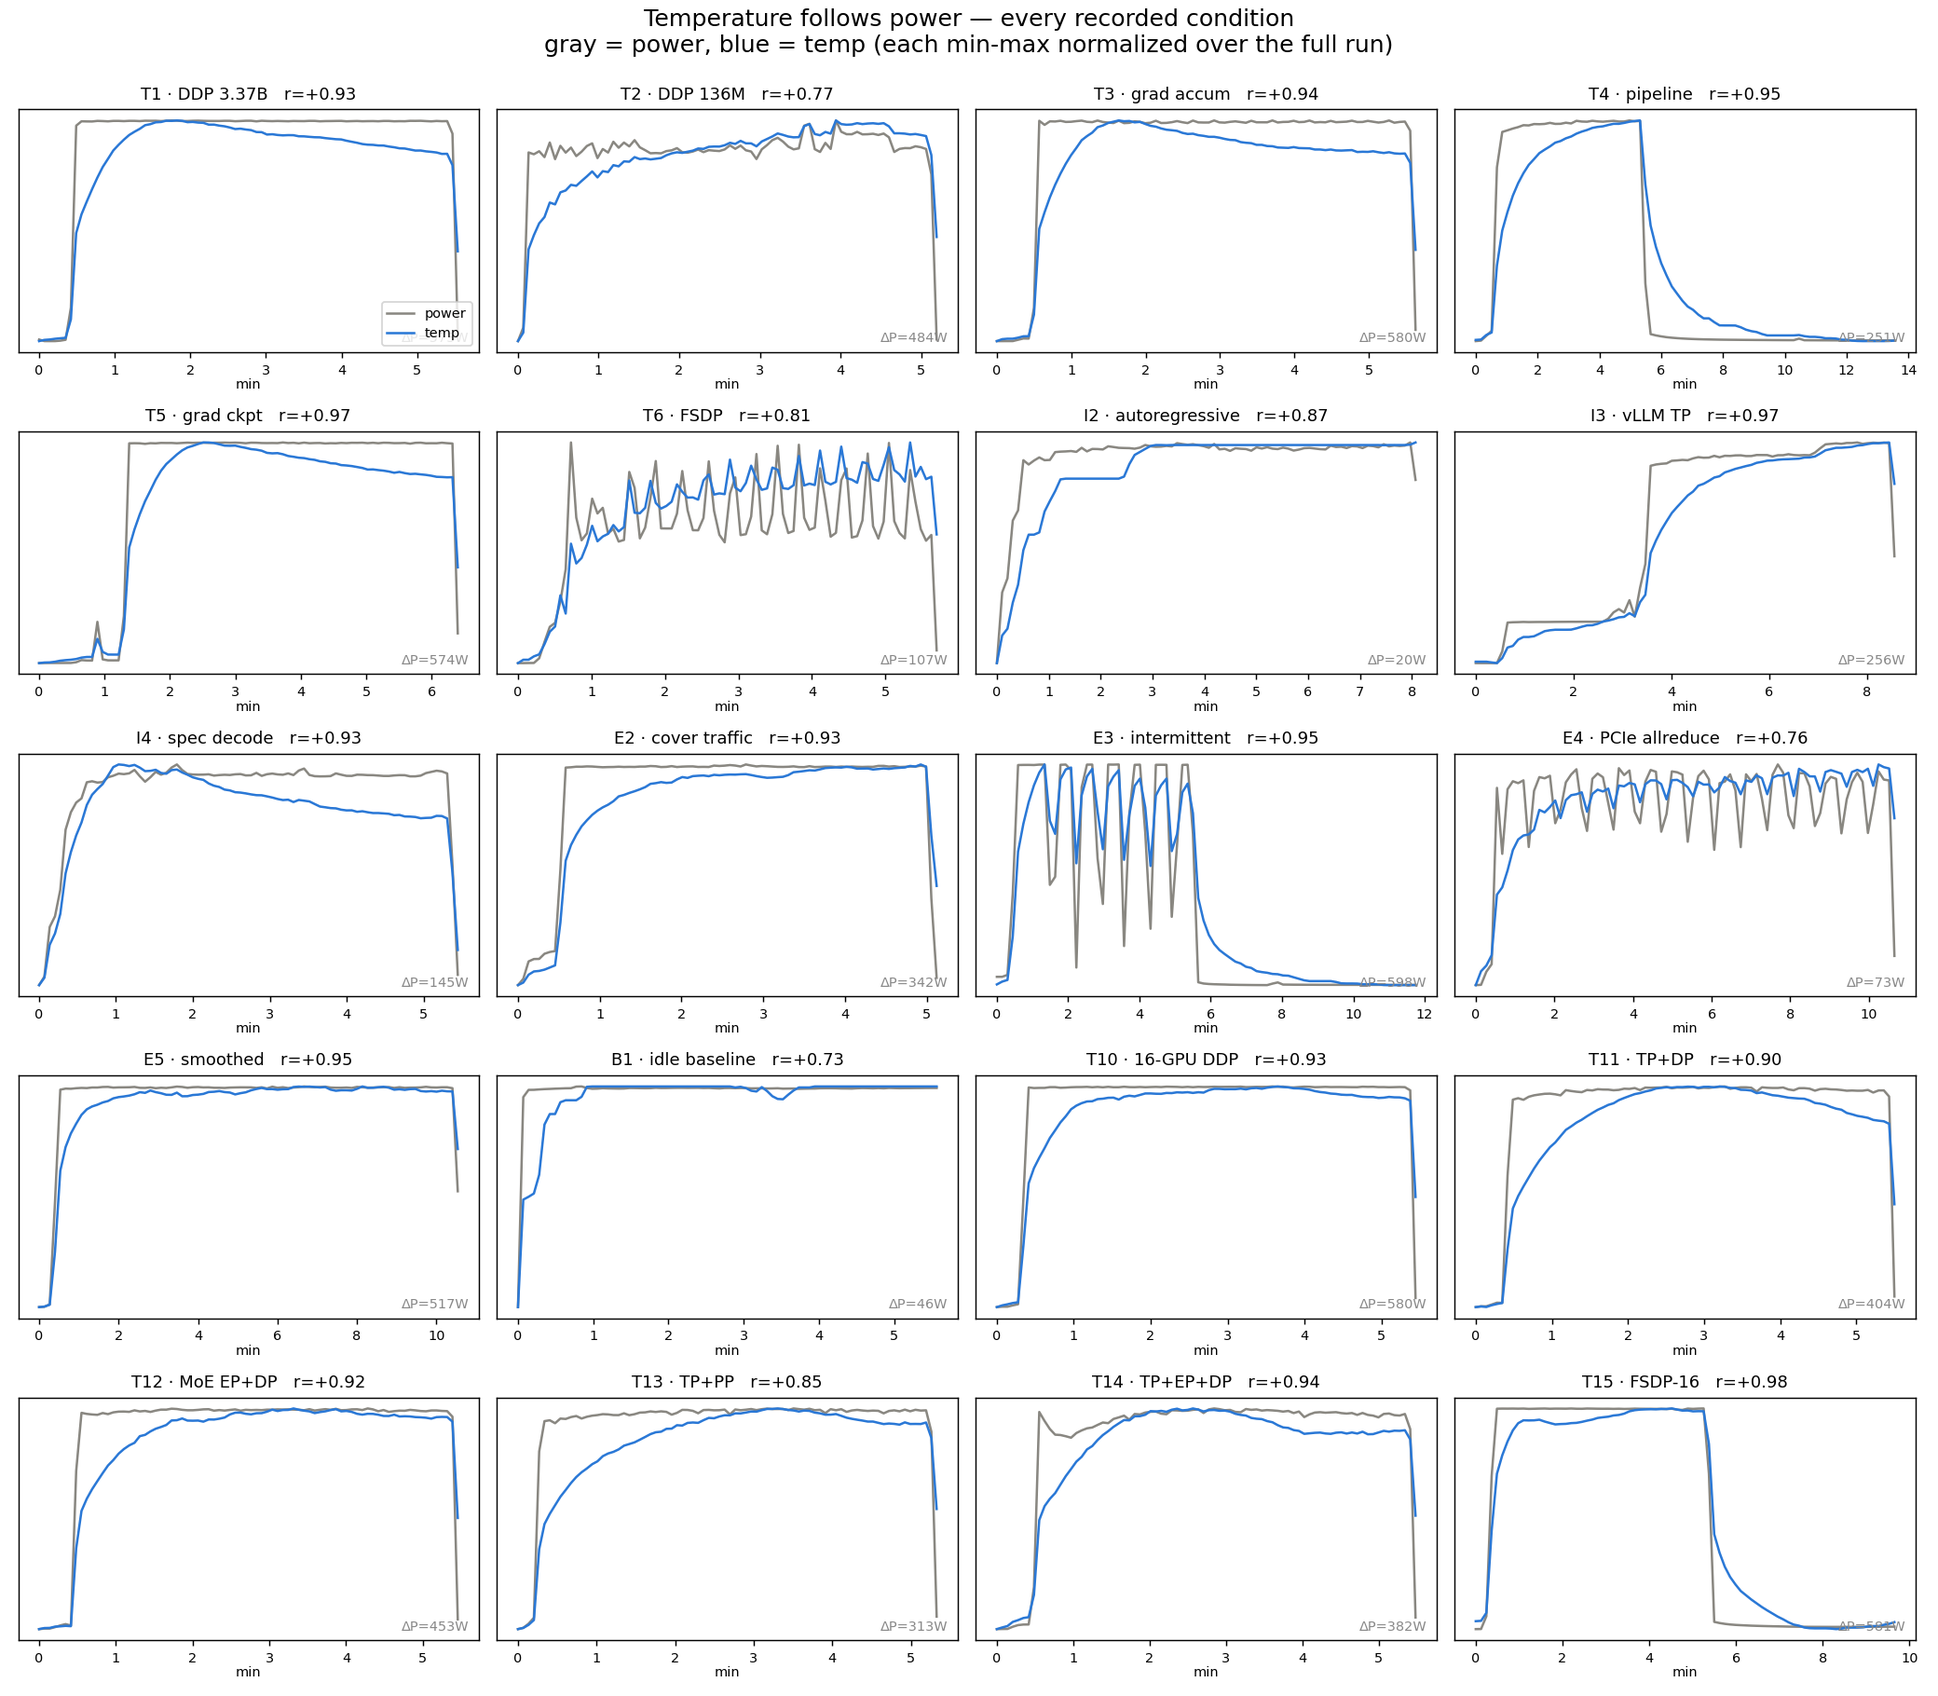
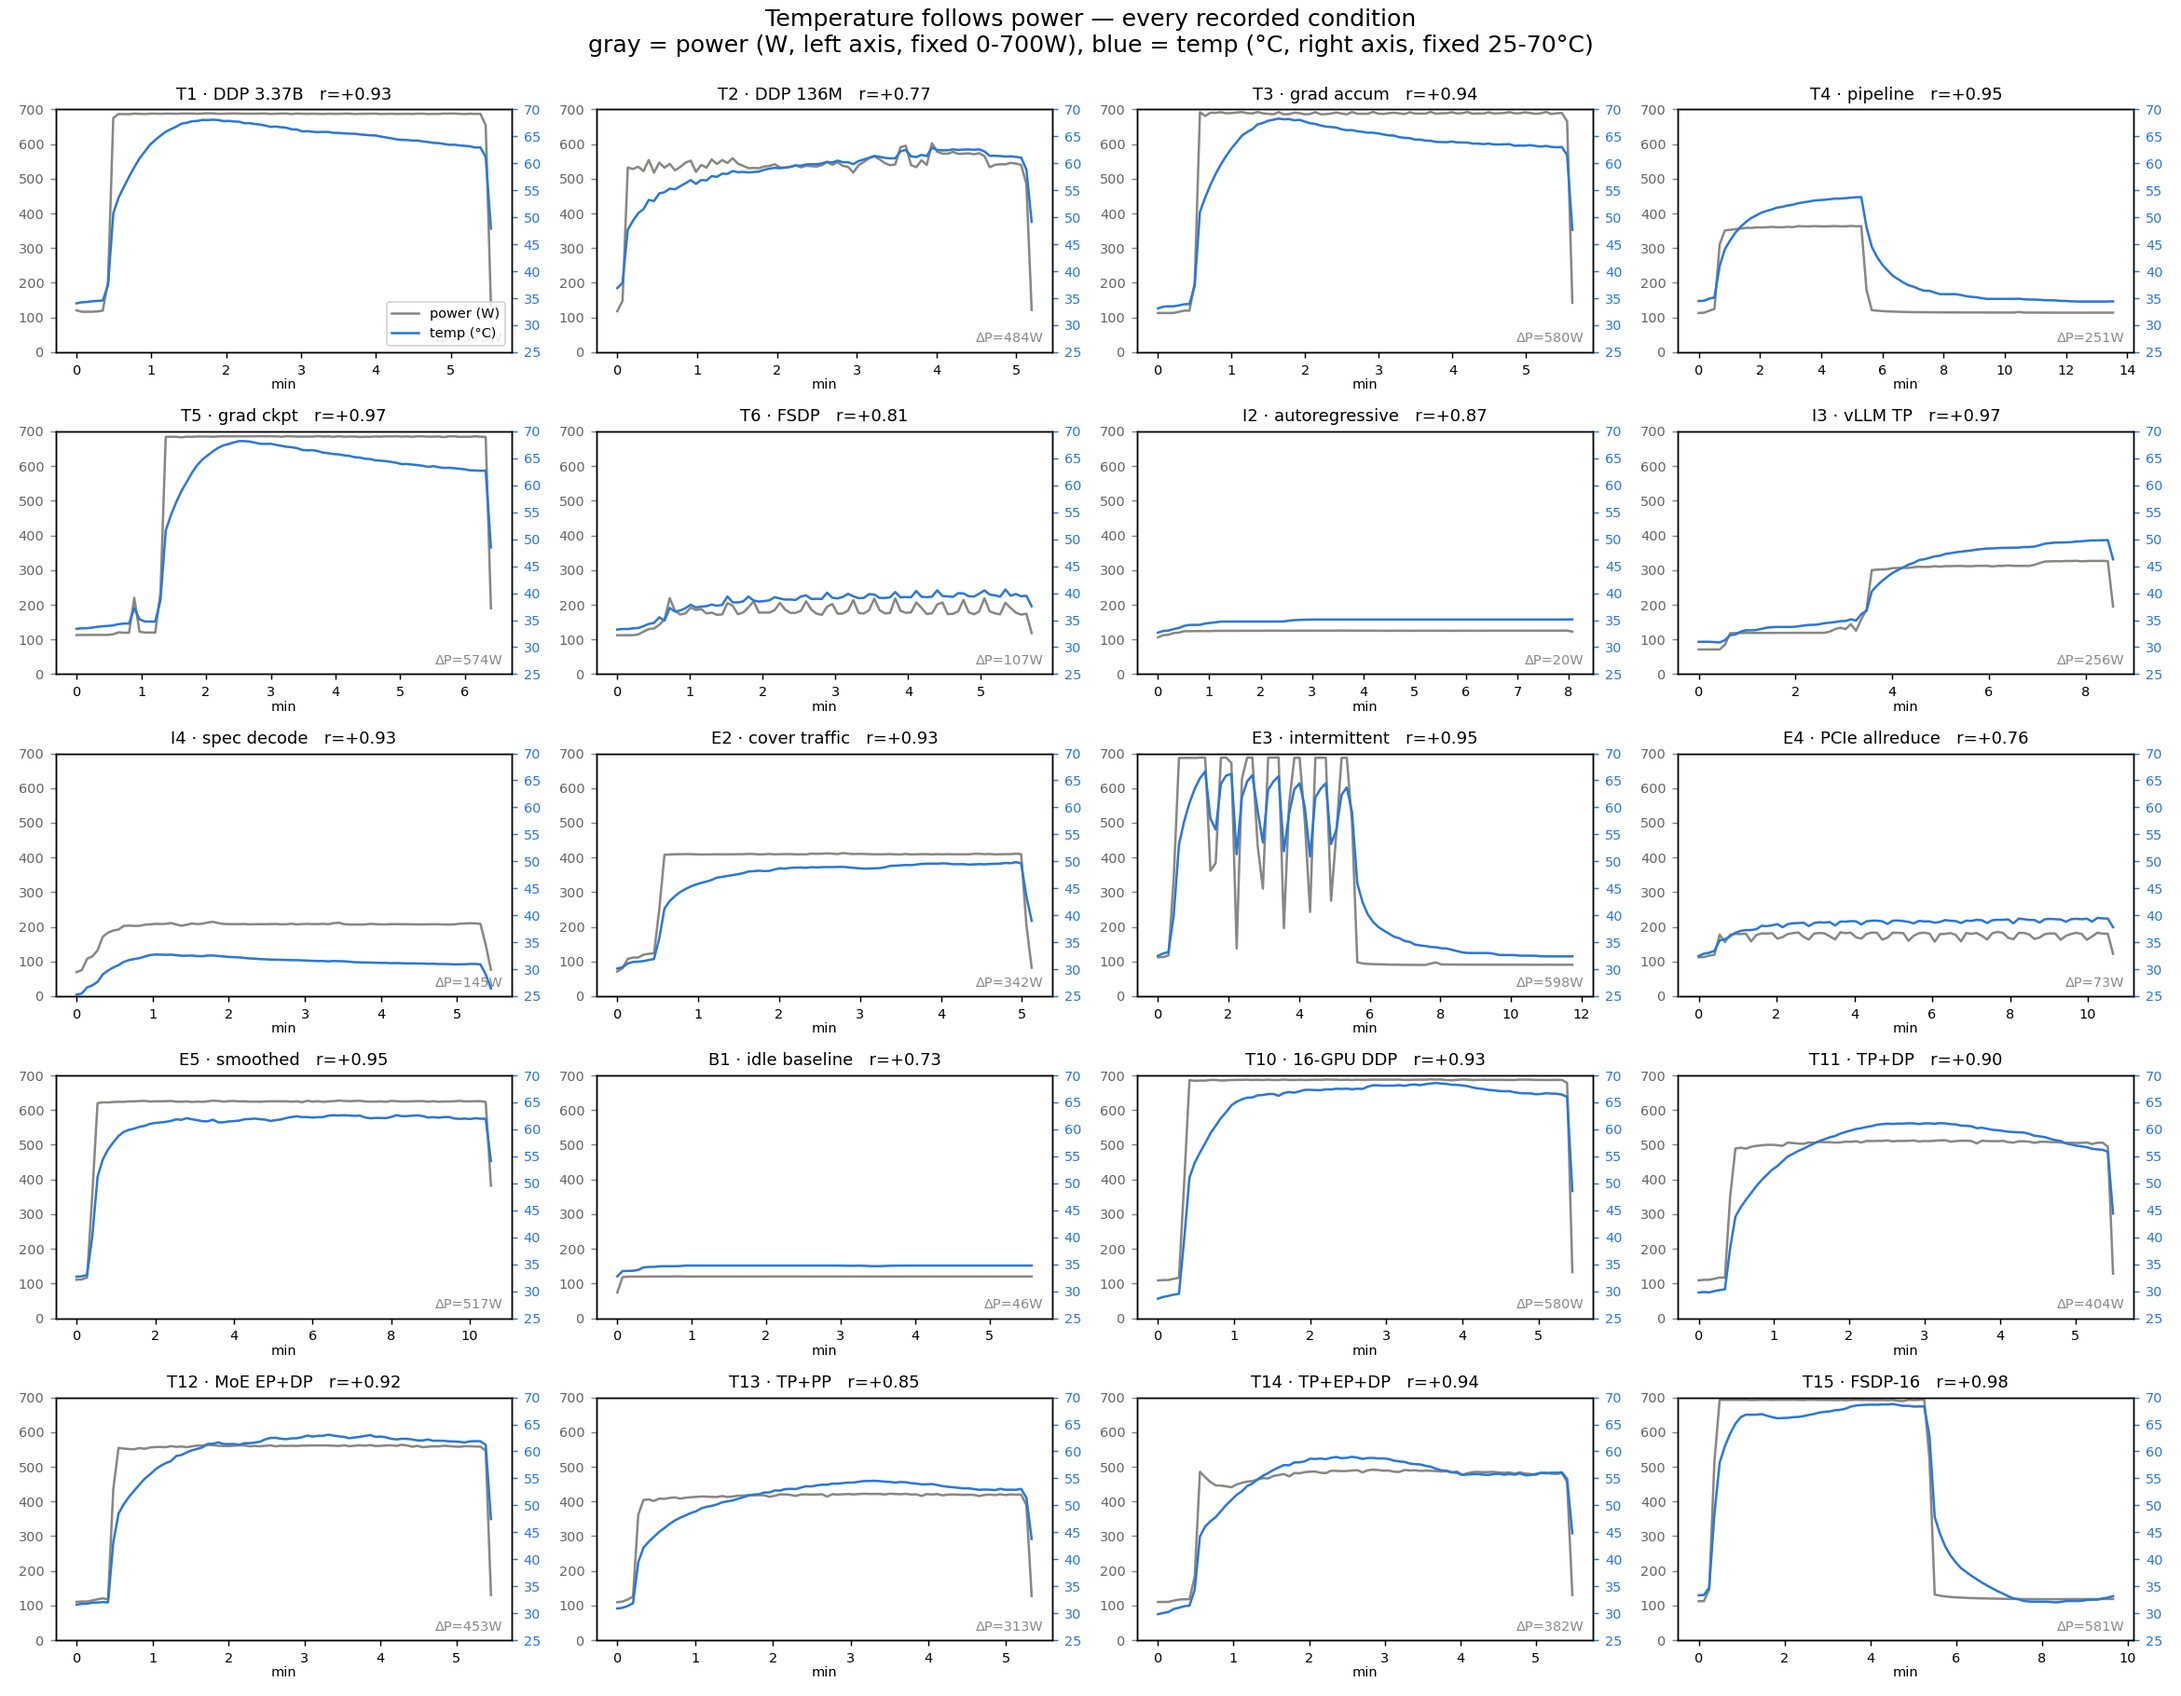
Temp-follows-power gallery: real units on fixed common axes
Replace min-max normalized curves with twin y-axes — power (W, left,
fixed 0-700W = H100 TDP) and temp (°C, right, fixed 25-70°C) — so all
20 panels are directly comparable in absolute terms.

diff --git a/analysis/temp_follows_power.py b/analysis/temp_follows_power.py
@@ -2,7 +2,7 @@
 
 For each condition, plot node-mean power (gray) and temp (blue) over the FULL
 run (including startup, where the power step makes the thermal chase visible),
-both min-max normalized so a 700W run and a 130W run are visually comparable.
+with real units on twin y-axes: power (W) on the left, temp (°C) on the right.
 Annotate with the plain Pearson correlation of the binned series.
 
 Session 12 finding: r = 0.73-0.98 across all 20 conditions; low-r panels are
@@ -45,31 +45,31 @@ def load_binned(key):
     return b.power_w.values, b.temp_c.values, dur
 
 
-def norm(x):
-    rng = x.max() - x.min()
-    return (x - x.min()) / rng if rng > 0 else np.full_like(x, 0.5)
-
-
 def main():
-    fig, axes = plt.subplots(5, 4, figsize=(16, 14))
+    fig, axes = plt.subplots(5, 4, figsize=(18, 14))
     fig.suptitle("Temperature follows power — every recorded condition\n"
-                 "gray = power, blue = temp (each min-max normalized over the full run)",
+                 "gray = power (W, left axis, fixed 0-700W), blue = temp (°C, right axis, fixed 25-70°C)",
                  fontsize=14, y=0.995)
 
     for ax, (key, label) in zip(axes.flat, CONDITIONS):
         P, T, dur = load_binned(key)
         r = np.corrcoef(P, T)[0, 1]
         x = np.linspace(0, dur / 60, len(P))
-        ax.plot(x, norm(P), color="#898781", lw=1.4, label="power")
-        ax.plot(x, norm(T), color="#2a78d6", lw=1.4, label="temp")
+        axt = ax.twinx()
+        lp, = ax.plot(x, P, color="#898781", lw=1.4, label="power (W)")
+        lt, = axt.plot(x, T, color="#2a78d6", lw=1.4, label="temp (°C)")
+        ax.set_ylim(0, 700)  # common scale: H100 TDP
+        axt.set_ylim(25, 70)  # common temp scale across panels
         ax.set_title(f"{label}   r={r:+.2f}", fontsize=10)
         ax.text(0.98, 0.04, f"ΔP={P.max()-P.min():.0f}W",
                 transform=ax.transAxes, ha="right", fontsize=8, color="#888")
-        ax.set_yticks([])
-        ax.tick_params(labelsize=8)
+        ax.tick_params(labelsize=8, colors="#898781", labelcolor="#66645f")
+        axt.tick_params(labelsize=8, colors="#2a78d6", labelcolor="#2a78d6")
+        ax.tick_params(axis="x", colors="black", labelcolor="black")
         ax.set_xlabel("min", fontsize=8, labelpad=1)
+        if ax is axes.flat[0]:
+            ax.legend(handles=[lp, lt], fontsize=8, loc="lower right")
 
-    axes.flat[0].legend(fontsize=8, loc="lower right")
     fig.tight_layout()
     out = os.path.join(ROOT, "plots", "12_temp_follows_power.png")
     fig.savefig(out, dpi=130)
